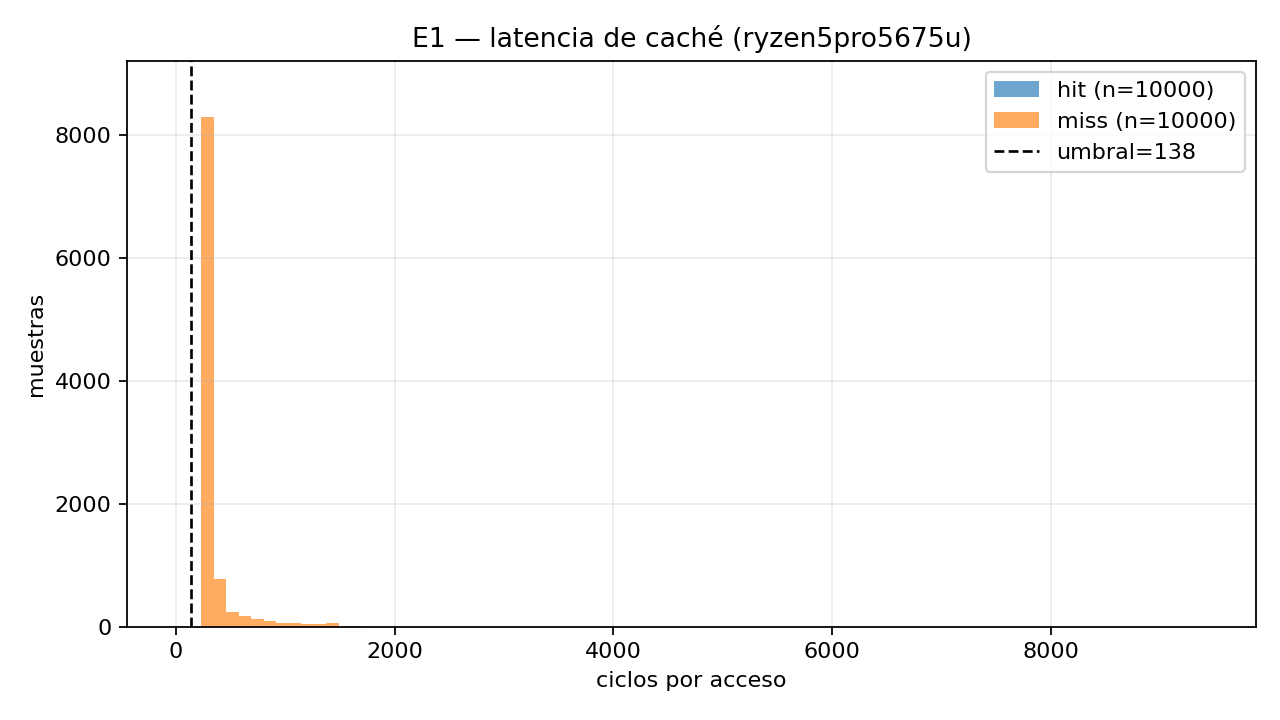
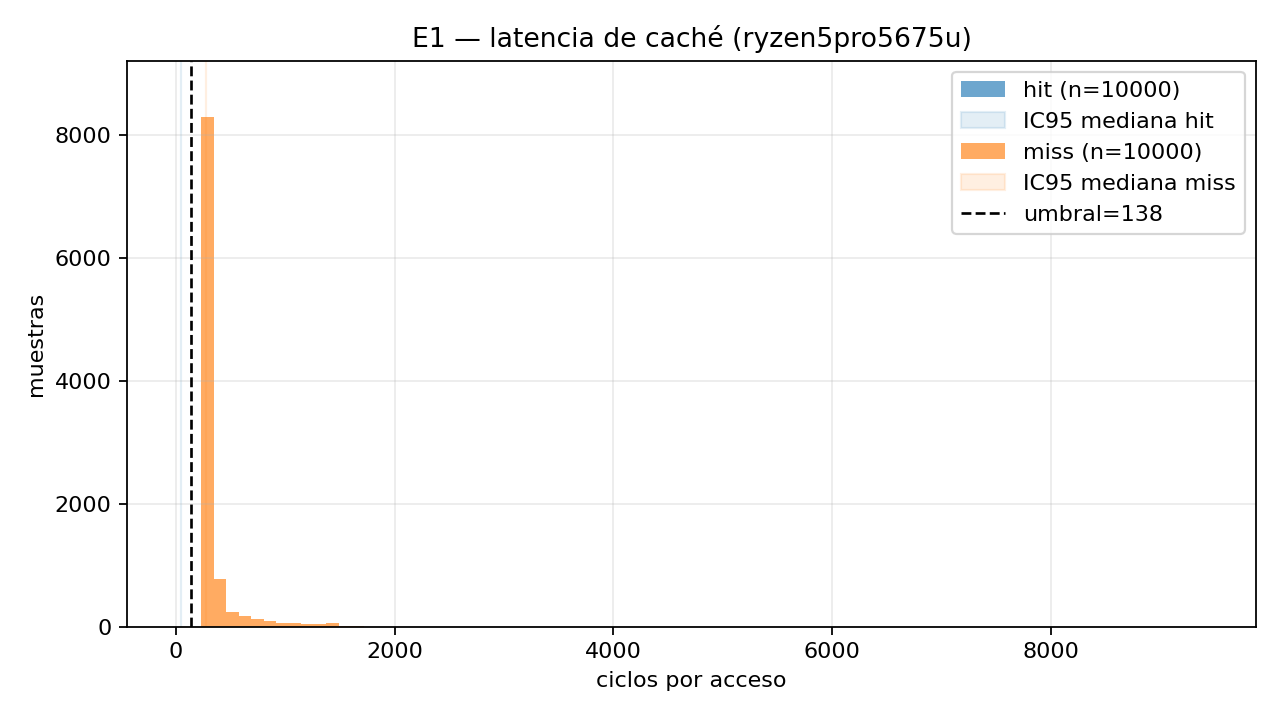
T5: regenera figuras y cierra el plan de cambios

Changed region(s): [[0.75, 0.0917, 0.9688, 0.3361]]

diff --git a/docs/plan-cambios.md b/docs/plan-cambios.md
@@ -5,10 +5,9 @@
 - Tarea 1 (E2 fuera de resultados): commit `ea2ab14`.
 - Tarea 2 (E1 jerárquico y coste del temporizador): commit `279c338`.
 - Tarea 3 (barrido E3 y verificación del ensamblador): commit `e40079c`.
-- Tarea 4 (estadística, validación y regeneración): commit `3fce127`.
-- Tarea 5 (limitaciones, fichas y comparativa extendida): `analysis/compare_extended.py`,
-  `docs/machines.md`, `docs/limitations.md`, `docs/report-guide.md` y
-  `analysis/compare_machines.py` actualizados.
+- Tarea 4 (estadística, validación y regeneración): commits `3fce127` y
+  `6835792`.
+- Tarea 5 (limitaciones, fichas y comparativa extendida): commit `6870d3b`.
 - Campaña real multi-máquina: **PENDIENTE**. No hay cifras nuevas de campaña
   inventadas en la documentación.
 - Anexo E2 en hardware: **PENDIENTE DE CONFIRMAR CON EL PROFESOR**.
